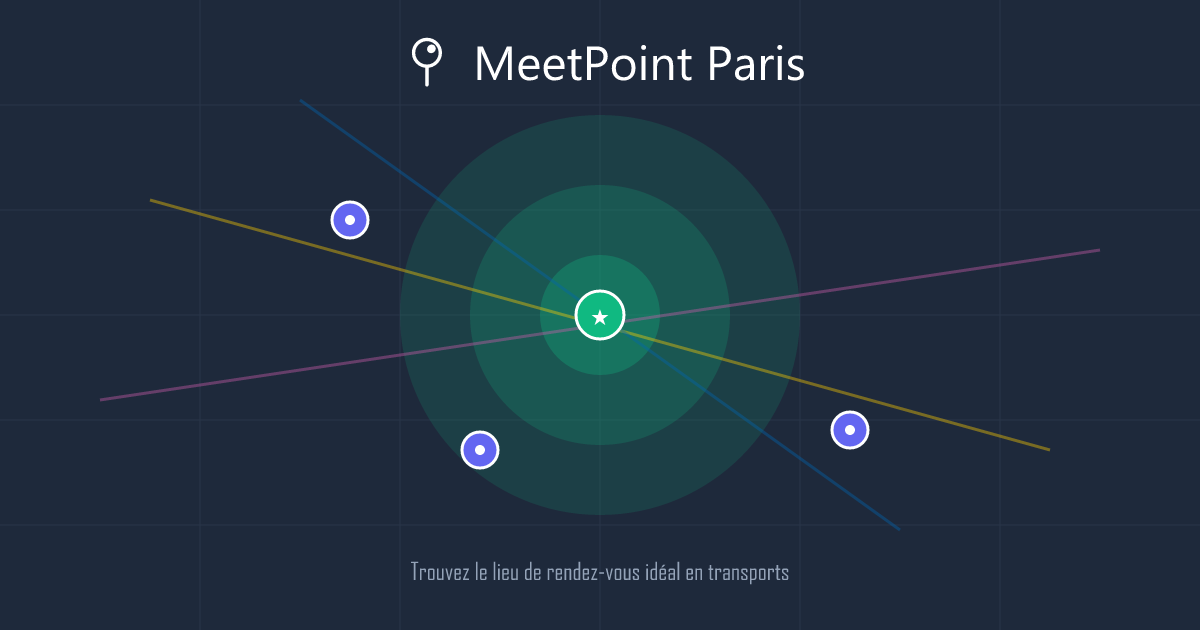
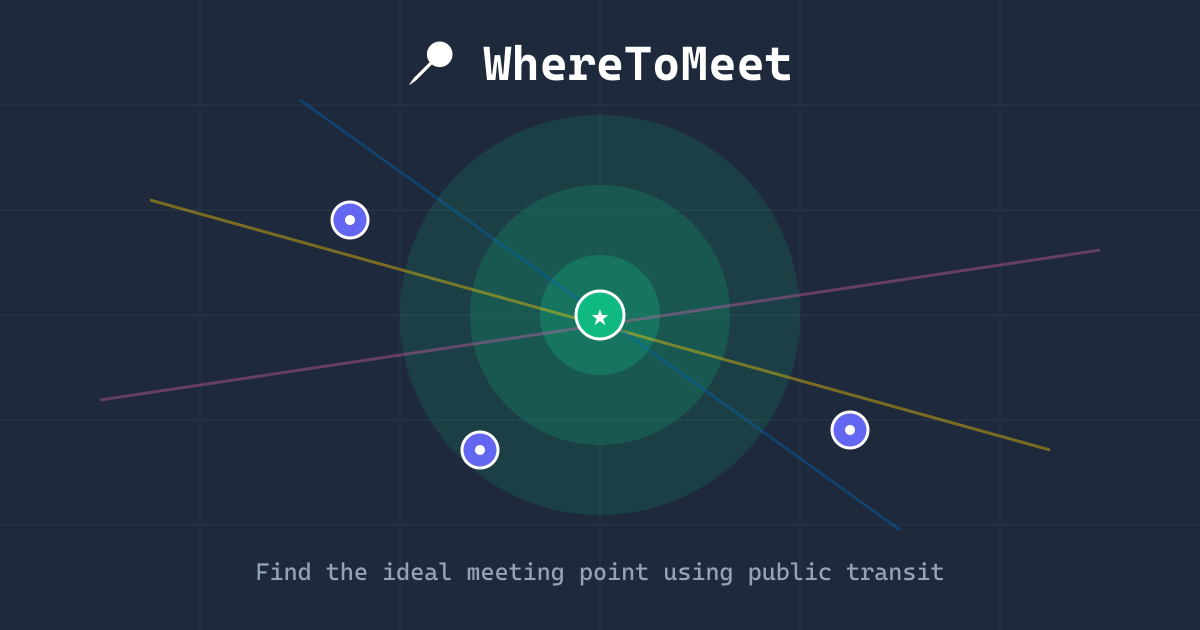
City-specific SEO meta tags + fix desktop sidebar offset + update OG image
- spaRoutes() Vite plugin now generates unique title, description, canonical,
  OG/Twitter tags, and narrowed structured data for each city page
- Fix desktop sidebar pushed up by inline `bottom` style overriding CSS
  (use md:!inset-auto with !important to beat inline specificity)
- Update OG image: "WhereToMeet" branding, remove Paris-specific mention

Changed region(s): [[0.3392, 0.0603, 0.6783, 0.1508], [0.2158, 0.8746, 0.6783, 0.9349], [0.7092, 0.8746, 0.7708, 0.9349]]

diff --git a/vite.config.ts b/vite.config.ts
@@ -1,8 +1,128 @@
 import { defineConfig } from 'vite'
+import type { Plugin } from 'vite'
 import react from '@vitejs/plugin-react'
 import tailwindcss from '@tailwindcss/vite'
+import { mkdirSync, readFileSync, writeFileSync } from 'fs'
+import { join } from 'path'
+
+const BASE_URL = 'https://wheretomeet.app'
+
+interface CitySeo {
+  title: string
+  description: string
+  areaServed: { name: string; sameAs: string }
+}
+
+const citySeo: Record<string, CitySeo> = {
+  paris: {
+    title: 'WhereToMeet — Find the ideal meeting point in Paris by metro, RER, tram',
+    description:
+      'Find the optimal meeting point in Paris using Métro, RER, and Tramway. Over 750 stations covered with real GTFS travel times. Add departure addresses and meet halfway.',
+    areaServed: { name: 'Paris', sameAs: 'https://www.wikidata.org/wiki/Q90' },
+  },
+  toulouse: {
+    title: 'WhereToMeet — Find the ideal meeting point in Toulouse by metro, tram, cable car',
+    description:
+      'Find the optimal meeting point in Toulouse using Métro, Tramway, and Téléo cable car. 66 stations covered with real GTFS travel times.',
+    areaServed: { name: 'Toulouse', sameAs: 'https://www.wikidata.org/wiki/Q7880' },
+  },
+  marseille: {
+    title: 'WhereToMeet — Find the ideal meeting point in Marseille by metro, tram',
+    description:
+      'Find the optimal meeting point in Marseille using Métro and Tramway. 68 stations covered with real GTFS travel times.',
+    areaServed: { name: 'Marseille', sameAs: 'https://www.wikidata.org/wiki/Q2619' },
+  },
+  london: {
+    title: 'WhereToMeet — Find the ideal meeting point in London by Underground',
+    description:
+      'Find the optimal meeting point in London using the Underground (Tube). 11 lines, 266 stations covered. Add departure addresses and meet halfway.',
+    areaServed: { name: 'London', sameAs: 'https://www.wikidata.org/wiki/Q84' },
+  },
+  'new-york': {
+    title: 'WhereToMeet — Find the ideal meeting point in New York by subway',
+    description:
+      'Find the optimal meeting point in New York City using the Subway. 23 lines, 424 stations covered. Add departure addresses and meet halfway.',
+    areaServed: { name: 'New York City', sameAs: 'https://www.wikidata.org/wiki/Q60' },
+  },
+}
+
+function buildCityHtml(html: string, slug: string): string {
+  const seo = citySeo[slug]
+  if (!seo) return html // legal page: just copy as-is
+
+  const url = `${BASE_URL}/${slug}`
+
+  // Title
+  html = html.replace(
+    /<title>[^<]*<\/title>/,
+    `<title>${seo.title}</title>`,
+  )
+
+  // Meta description
+  html = html.replace(
+    /<meta name="description" content="[^"]*"/,
+    `<meta name="description" content="${seo.description}"`,
+  )
+
+  // Canonical
+  html = html.replace(
+    /<link rel="canonical" href="[^"]*"/,
+    `<link rel="canonical" href="${url}"`,
+  )
+
+  // OG tags
+  html = html.replace(
+    /<meta property="og:title" content="[^"]*"/,
+    `<meta property="og:title" content="${seo.title}"`,
+  )
+  html = html.replace(
+    /<meta property="og:description" content="[^"]*"/,
+    `<meta property="og:description" content="${seo.description}"`,
+  )
+  html = html.replace(
+    /<meta property="og:url" content="[^"]*"/,
+    `<meta property="og:url" content="${url}"`,
+  )
+
+  // Twitter tags
+  html = html.replace(
+    /<meta name="twitter:title" content="[^"]*"/,
+    `<meta name="twitter:title" content="${seo.title}"`,
+  )
+  html = html.replace(
+    /<meta name="twitter:description" content="[^"]*"/,
+    `<meta name="twitter:description" content="${seo.description}"`,
+  )
+
+  // Structured data: narrow areaServed to just this city
+  const { name, sameAs } = seo.areaServed
+  const singleArea = JSON.stringify([{ '@type': 'City', name, sameAs }])
+  html = html.replace(
+    /"areaServed"\s*:\s*\[[\s\S]*?\]/,
+    `"areaServed": ${singleArea}`,
+  )
+
+  return html
+}
+
+// Generate {slug}/index.html for each SPA route so GitHub Pages serves 200 (not 404)
+function spaRoutes(): Plugin {
+  const routes = ['paris', 'toulouse', 'marseille', 'london', 'new-york', 'legal']
+  return {
+    name: 'spa-routes',
+    closeBundle() {
+      const outDir = join(__dirname, 'dist')
+      const baseHtml = readFileSync(join(outDir, 'index.html'), 'utf-8')
+      for (const route of routes) {
+        const dir = join(outDir, route)
+        mkdirSync(dir, { recursive: true })
+        writeFileSync(join(dir, 'index.html'), buildCityHtml(baseHtml, route))
+      }
+    },
+  }
+}
 
 export default defineConfig({
   base: "/",
-  plugins: [react(), tailwindcss()],
+  plugins: [react(), tailwindcss(), spaRoutes()],
 })

diff --git a/src/components/Sidebar.tsx b/src/components/Sidebar.tsx
@@ -87,7 +87,7 @@ export default function Sidebar({
         transform: isOpen ? 'translateY(0)' : 'translateY(calc(100% + 46px + env(safe-area-inset-bottom, 0px)))',
       }} className={`
         fixed inset-x-0 z-40
-        md:relative md:inset-auto md:bottom-auto
+        md:relative md:!inset-auto
         bg-slate-800 border-t border-slate-700 md:border-t-0 md:border-r
         rounded-t-2xl md:rounded-none
         max-h-[75vh] md:max-h-none md:h-full
